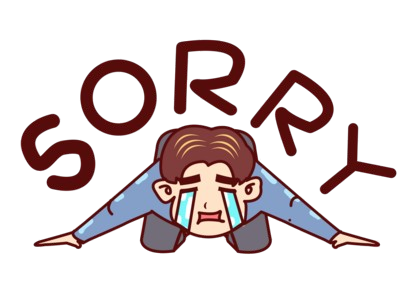
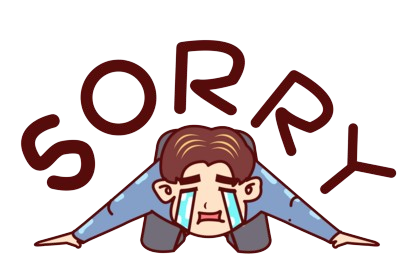
updated tourguide

diff --git a/styleTour.css b/styleTour.css
@@ -104,23 +104,32 @@ header .tagline {
   color: #333;
 }
 
-/* no result display*/
+/* Container for no results message */
 #no-results {
   display: none; /* Hidden by default */
   text-align: center; /* Center the text */
-  font-size: 35px; /* Adjust the font size */
+  font-size: 30px; /* Adjust the font size */
   font-weight: bold;
   color: #333; /* Text color */
-  margin: 20px 0; /* Margin around the message */
-  padding: 10px; /* Padding inside the message box */
+  padding: 20px; /* Padding inside the message box */
+  padding-top: 0px;
   background-color: #f8d7da; /* Light red background for visibility */
   border: 1px solid #f5c6cb; /* Border to match background color */
   border-radius: 5px; /* Rounded corners */
+
+  /* Center horizontally and vertically */
+  position: fixed; /* Fixed position to cover the viewport */
+  top: 50%; /* Center vertically */
+  left: 50%; /* Center horizontally */
+  transform: translate(-50%, 5%); /* Adjust for center alignment */
+  width: 80%; /* Adjust width as needed */
+  max-width: 1000px; /* Max width to prevent too large */
 }
 
+/* Styling for the sorry image */
 .sorry-image {
-  width: 450px; /* Adjust the width of the image */
+  width: 400px; /* Adjust the width of the image as needed */
   height: auto; /* Maintain aspect ratio */
   display: block;
-  margin: 0 auto 10px; /* Center the image and space below it */
+  margin: 0 auto 5px; /* Center the image and space below it */
 }
